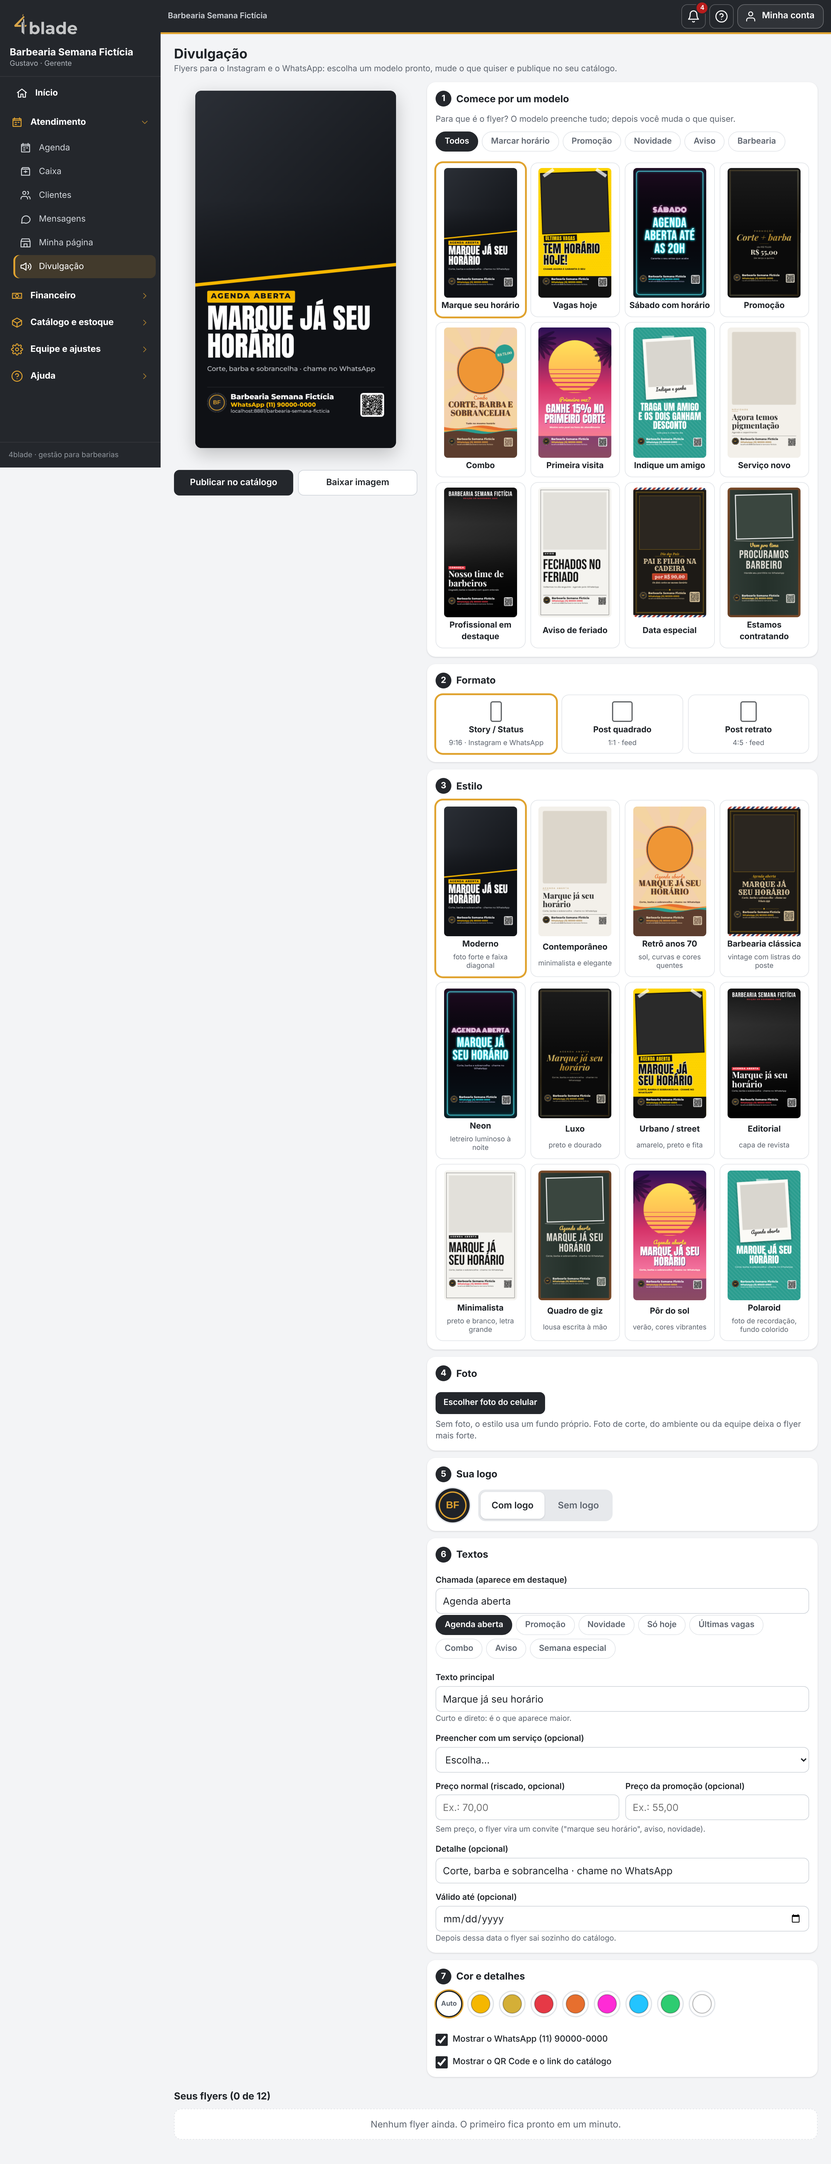
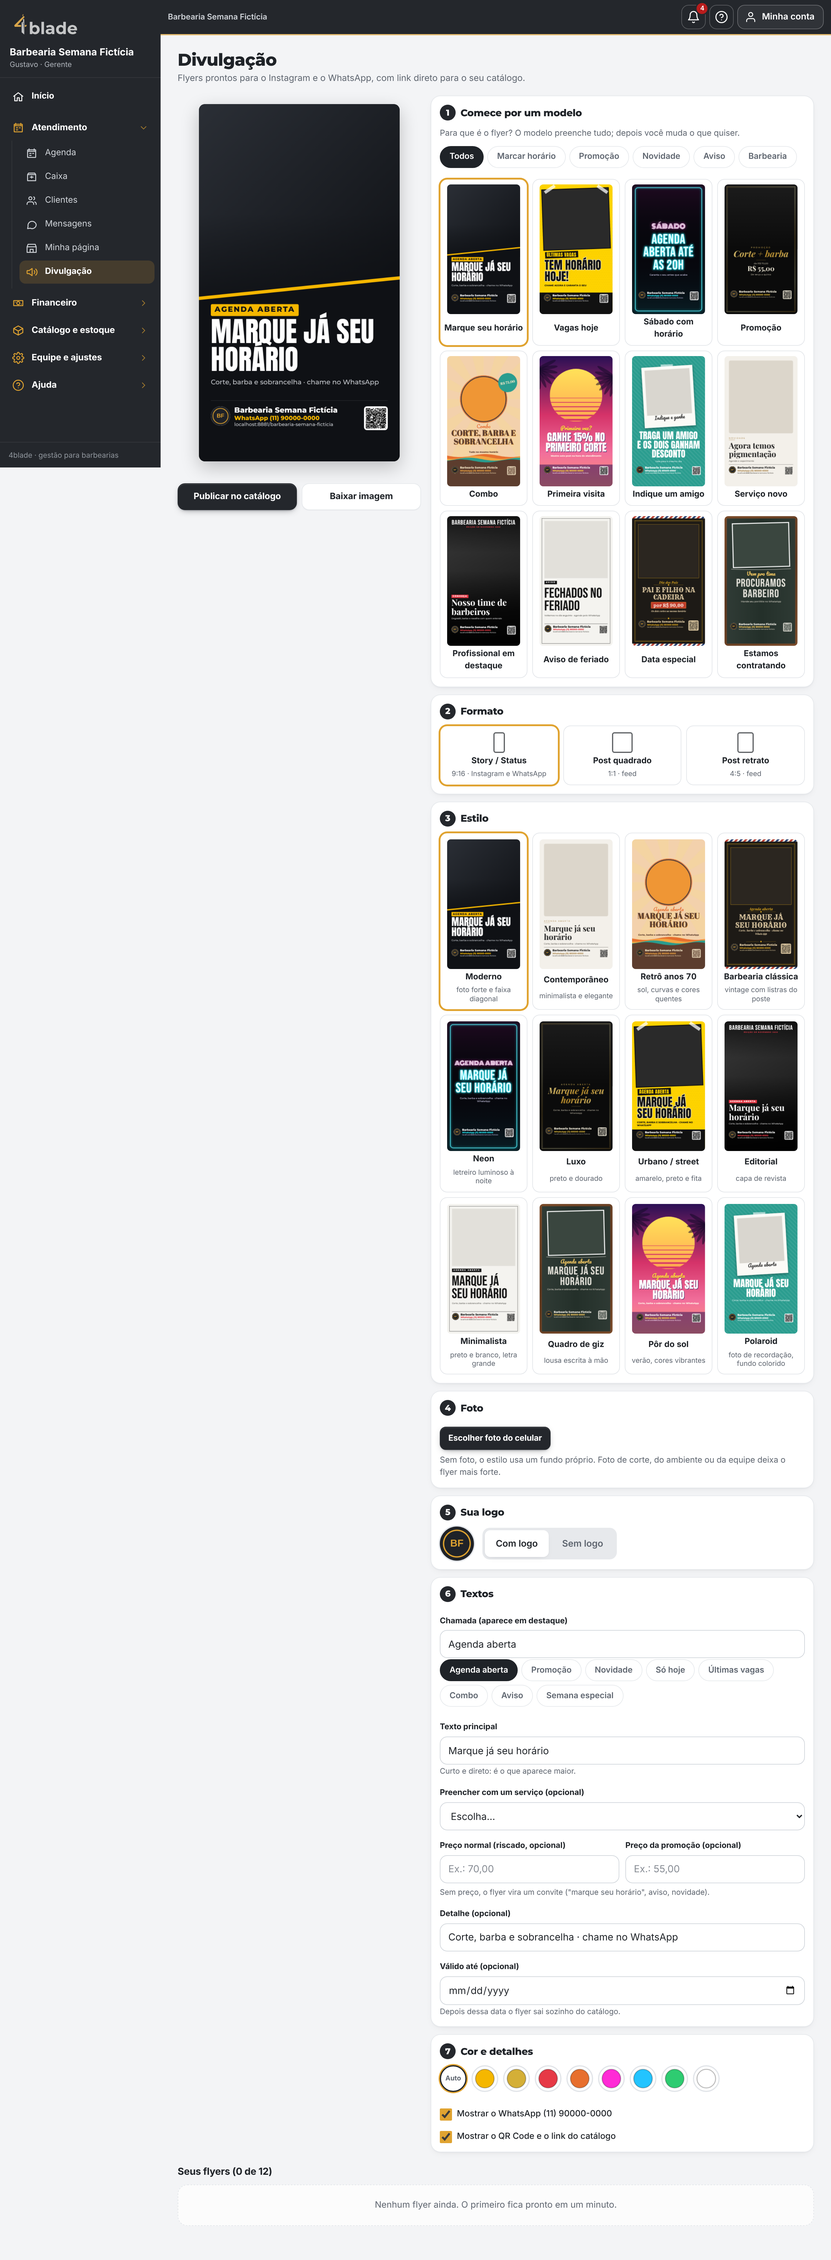
Refinamento visual v3: títulos da marca, botões/campos/cartões consistentes, textos das telas e Equipe reorganizada
Claude-Session: https://claude.ai/code/session_01R9hMmP8YX9EsdpaJW4w2cf

Changed region(s): [[0.2178, 0.0, 0.9645, 0.9679], [0.0, 0.0, 0.1867, 0.2186], [0.9334, 0.8743, 0.9645, 0.9055]]

diff --git a/public/style.css b/public/style.css
@@ -1844,3 +1844,148 @@ html { touch-action: manipulation; -webkit-text-size-adjust: 100%; text-size-adj
 .ver-mais-lista > summary { cursor: pointer; padding: 10px 4px 4px; font-weight: 700; color: var(--destaque); list-style: none; }
 .ver-mais-lista > summary::-webkit-details-marker { display: none; }
 .ver-mais-lista[open] > summary { padding-bottom: 8px; }
+
+/* =====================================================================================
+   REFINAMENTO VISUAL v3 (25/11/2026, pedido do responsável): menos "cara de app genérico".
+   Camada única no fim do arquivo (fácil de ajustar/desfazer). Só variáveis de cor.
+   - Títulos com a fonte da marca (Montserrat), números tabulares, hierarquia clara
+   - Botões, campos e cartões com o mesmo desenho (raio, altura, sombra, estados)
+   - Cartões com borda fina + sombra suave; menos "caixa cinza dentro de caixa cinza"
+   ===================================================================================== */
+@font-face { font-family: "Marca"; src: url(/fontes/montserrat-800.woff2) format("woff2"); font-weight: 700 900; font-display: swap; }
+@font-face { font-family: "Marca"; src: url(/fontes/montserrat-500.woff2) format("woff2"); font-weight: 400 600; font-display: swap; }
+:root {
+  --raio: 14px;
+  --raio-botao: 12px;
+  --linha: color-mix(in srgb, var(--borda) 85%, transparent);
+  --sombra: 0 1px 2px rgba(16, 24, 40, .04), 0 4px 14px -6px rgba(16, 24, 40, .10);
+  --sombra-alta: 0 2px 4px rgba(16, 24, 40, .05), 0 18px 40px -12px rgba(16, 24, 40, .22);
+  --transicao: .16s cubic-bezier(.2, .7, .3, 1);
+}
+:root[data-tema="escuro"] { --sombra: 0 1px 2px rgba(0, 0, 0, .35), 0 6px 16px -8px rgba(0, 0, 0, .55); --sombra-alta: 0 20px 44px -12px rgba(0, 0, 0, .7); }
+body { font-size: 15px; line-height: 1.45; -webkit-font-smoothing: antialiased; text-rendering: optimizeLegibility; }
+strong, .preco, .resumo-item strong, .valor { font-variant-numeric: tabular-nums; }
+
+/* ---- topo: sem a faixa grossa; linha fina e um brilho discreto da cor de destaque ---- */
+.topo { border-bottom: 0; box-shadow: 0 1px 0 rgba(255, 255, 255, .06), 0 2px 0 color-mix(in srgb, var(--dourado) 70%, transparent); }
+.topo-conta, .topo .btn-icone, #btn-notif, #btn-ajuda { border-radius: 12px; transition: background var(--transicao); }
+
+/* ---- títulos das telas ---- */
+main { padding: 20px 16px 48px; }
+.cabecalho { margin: 0 0 18px; gap: 4px 12px; }
+.cabecalho h2 { font-family: "Marca", system-ui, sans-serif; font-weight: 800; font-size: 25px; letter-spacing: -.02em; line-height: 1.15; }
+.cabecalho p { font-size: 14.5px; color: var(--suave); flex-basis: 100%; }
+.cabecalho .voltar { font-size: 14px; margin-bottom: 4px; }
+h3 { letter-spacing: -.01em; }
+.janela-form h3, .secao-titulo h3, .visao-secao h3, .fl-passo h3 { font-family: "Marca", system-ui, sans-serif; font-weight: 800; letter-spacing: -.015em; }
+@media (min-width: 1024px) { main { padding: 26px 28px 56px; } .cabecalho h2 { font-size: 28px; } }
+
+/* ---- cartões e listas: borda fina + sombra suave ---- */
+.cartao, .lista-x, .painel-novo, .resumo-item, .mp-secao, .fl-passo, .vaga, .fin-secao, .visao-secao {
+  border: 1px solid var(--linha); box-shadow: var(--sombra);
+}
+.cartao { border-radius: 16px; padding: 16px; }
+.lista-x, .painel-novo, .mp-secao, .fl-passo { border-radius: 16px; }
+.item-x { border-bottom-color: var(--linha); }
+.item-x:last-child { border-bottom: 0; }
+.item-x-resumo { transition: background var(--transicao); }
+.vazio { border-radius: 16px; padding: 22px 18px; background: color-mix(in srgb, var(--cartao) 70%, transparent); border: 1.5px dashed var(--borda); font-size: 14.5px; line-height: 1.5; }
+
+/* ---- indicadores (KPI): rótulo pequeno em caixa alta, número grande ---- */
+.resumo-item { border-radius: 14px; padding: 12px 14px; gap: 3px; }
+.resumo-item small { font-size: 11px; font-weight: 700; letter-spacing: .06em; text-transform: uppercase; }
+.resumo-item strong { font-size: 21px; font-weight: 800; letter-spacing: -.01em; }
+.resumo-item.alerta { box-shadow: inset 3px 0 0 var(--erro), var(--sombra); }
+
+/* ---- botões: um desenho só ---- */
+.botao {
+  min-height: 44px; border-radius: var(--raio-botao); padding: 0 16px; font-weight: 650; letter-spacing: -.005em;
+  border-color: var(--linha); background: var(--cartao); box-shadow: 0 1px 1px rgba(16, 24, 40, .04);
+  transition: background var(--transicao), border-color var(--transicao), box-shadow var(--transicao), transform .08s ease;
+}
+.botao:hover { background: var(--neutro-2); border-color: var(--borda); }
+.botao:active:not(:disabled) { transform: scale(.98); }
+.botao.principal, .botao.dourado {
+  box-shadow: inset 0 1px 0 rgba(255, 255, 255, .14), 0 1px 2px rgba(16, 24, 40, .18), 0 4px 12px -6px color-mix(in srgb, var(--botao-principal) 70%, transparent);
+}
+.botao.principal:hover { filter: brightness(1.08); background: var(--botao-principal); }
+.botao.dourado:hover { filter: brightness(1.05); background: var(--dourado); }
+.botao.pequeno { min-height: 38px; border-radius: 10px; padding: 0 13px; font-size: 13.5px; }
+.botao.texto-perigo, .alterna .botao, .botao.seta { box-shadow: none; }
+.botao.whats { background: color-mix(in srgb, var(--ok) 8%, var(--cartao)); border-color: color-mix(in srgb, var(--ok) 35%, transparent); }
+.botao.perigo-cheio { box-shadow: 0 1px 2px rgba(16, 24, 40, .18); }
+.botao:disabled { opacity: .5; box-shadow: none; }
+
+/* ---- campos ---- */
+label { font-size: 13px; font-weight: 650; color: var(--texto); margin-bottom: 6px; }
+.campo { margin-top: 12px; }
+input, select, textarea { min-height: 46px; border-radius: 12px; padding: 10px 13px; transition: border-color var(--transicao), box-shadow var(--transicao); }
+input:hover, select:hover, textarea:hover { border-color: color-mix(in srgb, var(--campo-borda) 60%, var(--texto)); }
+input:focus, select:focus, textarea:focus { border-color: var(--dourado); box-shadow: 0 0 0 4px color-mix(in srgb, var(--dourado) 20%, transparent); }
+input::placeholder, textarea::placeholder { color: color-mix(in srgb, var(--suave) 75%, transparent); }
+.marcar input { accent-color: var(--dourado); }
+
+/* ---- filtros (chips) e controles segmentados ---- */
+.chip-filtro { min-height: 36px; padding: 0 15px; display: inline-flex; align-items: center; border-color: var(--linha); transition: background var(--transicao), color var(--transicao); }
+.chip-filtro:hover { color: var(--texto); border-color: var(--borda); }
+.chip-filtro.ativo { background: var(--texto); border-color: var(--texto); color: var(--cartao); }
+.alterna, .abas-secao { background: var(--alterna-fundo); border-radius: 12px; padding: 4px; }
+.alterna .botao { border-radius: 9px; min-height: 34px; }
+.alterna .botao.ativo, .abas-secao a.ativa { box-shadow: 0 1px 2px rgba(16, 24, 40, .08), 0 1px 4px rgba(16, 24, 40, .06); }
+
+/* ---- "Novo …" (painel que abre): sem a bolinha dourada; ícone discreto e o form em 2 colunas quando há espaço ---- */
+.painel-novo { container-type: inline-size; }
+.painel-novo > summary { min-height: 56px; padding: 12px 16px; font-family: "Marca", system-ui, sans-serif; letter-spacing: -.01em; transition: background var(--transicao); }
+.painel-novo > summary:hover { background: var(--neutro-2); }
+.painel-novo .mais-novo { width: 30px; height: 30px; border-radius: 10px; background: var(--texto); color: var(--cartao); font-size: 19px; font-weight: 500; line-height: 1; }
+@container (min-width: 720px) {
+  .painel-novo > form.cartao { display: grid; grid-template-columns: 1fr 1fr; column-gap: 18px; align-items: start; padding: 6px 20px 20px; }
+  .painel-novo > form.cartao > :not(.campo) { grid-column: 1 / -1; }
+  .painel-novo > form.cartao > .botao[type=submit], .painel-novo > form.cartao > button.principal { justify-self: start; width: auto; min-width: 200px; }
+}
+
+/* ---- menu lateral ---- */
+.menu-nav { padding: 10px; gap: 3px; }
+.grupo-titulo, .nav-item { border-radius: 10px; transition: background var(--transicao), color var(--transicao); }
+.grupo-itens { padding: 2px 0 8px 12px; margin-left: 9px; border-left: 1px solid rgba(255, 255, 255, .07); }
+.nav-item.ativo { box-shadow: none; background: color-mix(in srgb, var(--dourado) 18%, transparent); color: #fff; font-weight: 650; }
+.nav-item.ativo .icone { color: var(--dourado); }
+.nav-inicio { margin: 2px 0 8px; }
+
+/* ---- janela (pop-up) ---- */
+.janela { border-radius: 20px; box-shadow: var(--sombra-alta); border: 1px solid var(--linha); }
+.janela::backdrop { background: rgba(10, 12, 16, .5); backdrop-filter: blur(2px); }
+.janela-form { padding: 20px 20px 18px; }
+.janela-form h3 { font-size: 19px; margin-bottom: 10px; }
+.janela-botoes { gap: 10px; margin-top: 6px; }
+
+/* ---- avisos e etiquetas ---- */
+.aviso-flutuante { border-radius: 14px; padding: 12px 18px; font-weight: 650; box-shadow: var(--sombra-alta); }
+.info { border-radius: 12px; padding: 11px 14px; border: 1px solid color-mix(in srgb, var(--info-texto) 14%, transparent); line-height: 1.45; }
+.etiqueta { padding: 2px 9px; font-size: 11.5px; letter-spacing: .01em; }
+
+/* ---- celular: um pouco mais de respiro nas laterais e toque confortável ---- */
+@media (max-width: 599px) {
+  main { padding: 16px 14px 40px; }
+  .cabecalho { margin-bottom: 14px; }
+  .cabecalho h2 { font-size: 23px; }
+  .resumo-item strong { font-size: 19px; }
+}
+@media (prefers-reduced-motion: reduce) { .botao, .item-x-resumo, input, select, textarea { transition: none; } .botao:active:not(:disabled) { transform: none; } }
+.rotulo-secao { margin: 0 0 8px; font-size: 11.5px; font-weight: 700; letter-spacing: .07em; text-transform: uppercase; color: var(--suave); }
+.vaga { border-radius: 14px; padding: 12px 14px; text-align: left; }
+.vaga strong { font-size: 22px; font-weight: 800; }
+.lista-x + .painel-novo, .lista-x + details.painel-novo { margin-top: 14px; }
+@media (max-width: 599px) {
+  .resumo-item strong { font-size: clamp(15px, 4.4vw, 19px); }
+  .pdv-ferramentas { flex-wrap: nowrap; overflow-x: auto; scrollbar-width: none; padding-bottom: 2px; }
+  .pdv-ferramentas::-webkit-scrollbar { display: none; }
+  .pdv-ferramentas > * { flex: none; }
+  .fl-botoes .botao, .fl-fim .botao { font-size: 14px; padding: 0 10px; white-space: nowrap; }
+}
+.mp-link { overflow-wrap: anywhere; }
+@media (max-width: 599px) {
+  .resumo-despesas:not(.duas):not(.quatro) .resumo-item { padding: 10px 10px; }
+  .resumo-despesas:not(.duas):not(.quatro) .resumo-item strong { font-size: clamp(13.5px, 3.8vw, 17px); letter-spacing: -.02em; }
+  .resumo-despesas:not(.duas):not(.quatro) .resumo-item small { font-size: 10px; letter-spacing: .04em; }
+}

diff --git a/public/app.js b/public/app.js
@@ -2883,7 +2883,7 @@ async function telaFuncionamento() {
           }, "Reabrir"), "pequeno")))))
       : el("p", { class: "suave", text: "Nenhuma data fechada daqui para frente." }));
 
-  mostrar(cabecalho("Funcionamento", "O horário de cada profissional fica dentro do funcionamento (Equipe → Horário)."),
+  mostrar(cabecalho("Funcionamento", "Dias e horários em que a barbearia atende. O horário de cada profissional fica em Equipe."),
     el("div", { class: "duas-colunas" }, el("section", {}, form), el("section", {}, formFechar, fechadas)));
 }
 
@@ -4116,7 +4116,7 @@ async function telaFinanceiro() {
       el("p", { class: "suave centro" }, "Planilha completa e envio ao contador: ", el("a", { href: "#/contador", text: "Contador e dados" }), ".")];
   }
   mostrar(
-    cabecalho("Relatórios", "Entradas, saídas, resultado, equipe e vendas da barbearia"),
+    cabecalho("Relatórios", "Quanto entrou, quanto saiu e o que sobrou — por período, equipe e vendas."),
     controles, abasFin, corpo);
 }
 
@@ -4347,7 +4347,7 @@ async function telaPagamentoEquipe(pessoaId = null) {
       ]
     });
   }) : [el("li", { class: "vazio", text: "Ninguém na equipe ainda." })]);
-  mostrar(cabecalho("Pagamento da equipe", "Quanto pagar a cada um no mês: salário + comissão − vales. Toque na pessoa para ver o resumo; \"Ver desempenho completo\" abre o panorama."),
+  mostrar(cabecalho("Pagamento da equipe", "Quanto pagar a cada um no mês: salário + comissão − vales."),
     abas, navega, topo,
     el("div", { class: "duas-colunas" }, el("section", {}, el("h3", { class: "titulo-lista", text: "Equipe" }), ul), ranking),
     el("p", { class: "suave nota-rodape", text: "O salário pago entra nas despesas (\"Salários (equipe)\") e no relatório financeiro; a comissão fica fechada. Gastos com pessoal = comissões + salários." }));
@@ -4772,7 +4772,7 @@ async function telaContas() {
   };
   desenhar();
   telaLista({
-    titulo: "Despesas", subtitulo: "Contas e compras da barbearia. Toque numa despesa para pagar, editar ou cancelar.",
+    titulo: "Despesas", subtitulo: "Contas a pagar, compras e tudo o que sai da barbearia.",
     topo: resumo,
     barra: barraBusca({ placeholder: "Buscar despesa", filtros: [["abertas", "A pagar"], ["pagas", "Pagas"], ["todas", "Todas"]], estado, aoMudar: desenhar }),
     lista: ul, painel: painelCadastro("Nova despesa", formNovaDespesa(doEstoque))
@@ -4924,10 +4924,10 @@ async function telaEquipe() {
 
   const form = formUsuario(perfisQuePossoCriar);
   mostrar(
-    cabecalho("Equipe", "Vagas do plano (usuários ativos):"),
-    vagasEl,
-    painelCadastro("Nova pessoa", form),
-    lista);
+    cabecalho("Equipe", "Quem trabalha com você, o que cada um acessa e quanto ganha de comissão."),
+    el("p", { class: "rotulo-secao", text: "Vagas do plano" }), vagasEl,
+    lista,
+    painelCadastro("Nova pessoa", form));
 }
 
 function camposComissao(u = null) {
@@ -5156,7 +5156,7 @@ async function telaServicos() {
   };
   desenhar();
   telaLista({
-    titulo: "Serviços", subtitulo: "Toque no serviço para editar. O preço pode mudar na hora de finalizar (fica registrado).",
+    titulo: "Serviços", subtitulo: "Preço e tempo de cada serviço. É a tabela usada na agenda e no caixa.",
     barra: barraBusca({ placeholder: "Buscar serviço", filtros: [["ativos", "Ativos"], ["desativados", "Desativados"]], estado, aoMudar: desenhar }),
     lista: ul, painel: painelCadastro("Novo serviço", formCadastro(def))
   });
@@ -5251,7 +5251,7 @@ async function telaProdutos() {
   painel.append(el("p", { class: "link-discreto" }, el("a", { href: "#/produtos", "data-teste": "novo-material", text: "É material que a barbearia usa e não vende (lâmina, creme…)? Cadastre como material de uso",
     onclick: ev => { ev.preventDefault(); janelaMaterial(); } })));
   telaLista({
-    titulo: "Produtos e estoque", subtitulo: "Toque no item para dar entrada (compra), baixa, ajuste ou editar.",
+    titulo: "Produtos e estoque", subtitulo: "O que você vende e o que usa no dia a dia, com o estoque de cada item.",
     barra: barraBusca({ placeholder: "Buscar produto ou código", filtros: [["todos", "Todos"], ["uso", "Uso da barbearia"], ["atencao", "Atenção"], ["desativados", "Desativados"]], estado, aoMudar: desenhar }),
     lista: el("div", {}, ul, todos.some(p => p.ativo)
       ? el("p", { class: "centro" }, botao("Inventário (contar a prateleira)", () => janelaInventario(todos.filter(p => p.ativo)), "pequeno")) : null),
@@ -5318,7 +5318,7 @@ async function telaClientes(busca = null) {
   };
   desenhar();
   telaLista({
-    titulo: "Clientes", subtitulo: "Toque no cliente para ver as opções.",
+    titulo: "Clientes", subtitulo: "Todos os seus clientes, com contato, histórico e pendências.",
     barra: barraBusca({ placeholder: "Buscar por nome, apelido ou telefone", filtros, estado: estadoClientes, aoMudar: desenhar }),
     contador, lista: ul, painel: (() => {
       const pn = painelCadastro("Novo cliente", formCadastro(def));
@@ -5380,7 +5380,7 @@ async function telaMensagens() {
   });
   mostrarModelo();
   const envio = await blocoEnviarMensagem(modelos, campos);
-  mostrar(cabecalho("Mensagens", "Escolha a mensagem, escolha os clientes e envie pelo WhatsApp."),
+  mostrar(cabecalho("Mensagens", "Escolha a mensagem e os clientes; o WhatsApp abre com o texto pronto."),
     el("div", { class: "tela-mensagens" },
       envio,
       el("details", { class: "painel-novo painel-modelos", "data-teste": "painel-modelos" },
@@ -5696,7 +5696,7 @@ async function telaNotificacoes() {
       el("button", { type: "button", class: `chip-filtro ${estadoNotif.filtro === id ? "ativo" : ""}`, "data-filtro": id, text: t,
         onclick: ev => { estadoNotif.filtro = id; chips.querySelectorAll(".chip-filtro").forEach(b => b.classList.toggle("ativo", b === ev.currentTarget)); desenhar(); } })));
   const novas = itens.filter(i => !v.has(i.id)).length;
-  mostrar(cabecalho("Notificações", "O que precisa da sua atenção. Toque num aviso para ir direto à tela certa. Some sozinho quando for resolvido."),
+  mostrar(cabecalho("Notificações", "O que precisa da sua atenção agora. Cada aviso some sozinho quando é resolvido."),
     el("div", { class: "notif-topo" },
       el("p", { class: "suave", "data-teste": "notif-novas", text: novas ? `${novas} nova(s) desde a última visita.` : "Nenhuma nova." }),
       novas ? botao("Marcar todas como vistas", () => { marcarVistas(itens); telaNotificacoes(); }, "pequeno") : null),
@@ -6050,7 +6050,7 @@ async function telaNotas() {
       estadoNotas.busca = campoB?.value || ""; desenhar();
     }
   });
-  telaLista({ titulo: "Notas (fiado)", subtitulo: "Quem levou para pagar depois. Toque no cliente para ver as notas e dar baixa quando ele pagar (entra no caixa de hoje).",
+  telaLista({ titulo: "Notas (fiado)", subtitulo: "Quem levou para pagar depois. Ao receber, o valor entra no caixa de hoje.",
     topo: resumoEl, barra, lista: ul });
 }
 
@@ -6368,7 +6368,7 @@ async function telaMinhaPagina() {
   ];
 
   mostrar(
-    cabecalho("Minha página", "Sua vitrine para a bio do Instagram, o WhatsApp e o Google."),
+    cabecalho("Minha página", "Sua vitrine na internet: para a bio do Instagram, o WhatsApp e o Google."),
     topo,
     numeros,
     el("div", { class: "mp-secoes" },
@@ -6791,7 +6791,7 @@ function montarFlyers(FL, d, lista, logo) {
   const cheio = lista.flyers.length >= lista.limite;
 
   mostrar(
-    cabecalho("Divulgação", "Flyers para o Instagram e o WhatsApp: escolha um modelo pronto, mude o que quiser e publique no seu catálogo."),
+    cabecalho("Divulgação", "Flyers prontos para o Instagram e o WhatsApp, com link direto para o seu catálogo."),
     ...avisos,
     el("div", { class: "fl-grade" },
       el("div", { class: "fl-previa-col" },

diff --git a/public/sw.js b/public/sw.js
@@ -3,7 +3,7 @@
  * Guarda SOMENTE os arquivos da tela (para abrir sem internet).
  * NUNCA guarda nada de /api/ (dados e login sempre vão direto ao servidor).
  */
-const CACHE = "4blade-v59";
+const CACHE = "4blade-v60";
 
 const ARQUIVOS = [
   "/",

diff --git a/CLAUDE.md b/CLAUDE.md
@@ -247,6 +247,8 @@ App de gestão para barbearias, vendido por assinatura para várias barbearias (
 
 - 25/11/2026: **Início: "Sem fechar" sem botões repetidos** (pedido do responsável). Sem migração. `telaVisaoDia`: cada linha é um `button.item-x-resumo.linha-cobrar` (data/hora · cliente · profissional + `.cobrar-seta` "›"); tocar = `cobrarAtendimento(id)` → busca `/caixa/atendimentos` e abre `janelaFinalizar(…, {endpoint: "/caixa/cobrar"})` ali mesmo (antes o botão levava ao Caixa, que só mostra os de hoje — os atrasados não apareciam lá); 5 à vista + `details.ver-mais-lista` "Ver mais N". Teste: `test/navegador-notificacoes.mjs` (7 atendimentos de ontem; print `*-gerente-sem-fechar`). Cache do sw `4blade-v59`. **Publicado em 25/11/2026 (autorizado, sem migração): versão ace7237f** (forblade.com.br: sw `4blade-v59`, app.js com `cobrarAtendimento`).
 
+- 25/11/2026: **Refinamento visual v3** (pedido do responsável: menos "cara de app genérico"). Sem migração. `public/style.css`: camada "REFINAMENTO VISUAL v3" no FIM do arquivo (fácil de ajustar/desfazer): fonte da marca nos títulos (`@font-face "Marca"` = Montserrat 500/800 de `/fontes/`), `--raio-botao`, `--linha`, `--sombra`/`--sombra-alta`, `--transicao`; topo sem a faixa grossa; títulos 25–28 px; cartões/listas com borda fina + sombra suave; KPIs (`.resumo-item`) com rótulo em caixa alta e número grande; botões com um desenho só (44 px, raio 12, estados hover/ativo); campos 46 px com foco suave; chips e controles segmentados; `.painel-novo` sem a bolinha dourada e com formulário em 2 colunas quando há espaço (`@container` ≥ 720 px); menu lateral com item ativo mais limpo; janela com raio 20 e fundo desfocado; celular: valores dos 3 indicadores de Despesas sem corte, ferramentas do caixa em 1 linha que desliza. app.js: subtítulos reescritos (Clientes, Despesas, Serviços, Produtos, Notas, Equipe, Relatórios, Mensagens, Notificações, Funcionamento, Divulgação, Minha página, Pagamento da equipe); Equipe = "Vagas do plano" (`.rotulo-secao`) + lista + "Nova pessoa" no fim. Prints antes/depois em `docs/prints/ux-v3/`. Cache do sw `4blade-v60`.
+
 ## Versão de teste publicada (Cloudflare) — NÃO atualizar mais (decisão de 16/11/2026)
 - Endereço: https://4blade-teste.terraplanagem.workers.dev (Worker `4blade-teste`, banco D1 `4blade-db-teste`, região ENAM). Dados FICTÍCIOS apenas.
 - Publicar de novo: `npx wrangler deploy --config wrangler.teste.toml`; migrações: `npx wrangler d1 migrations apply 4blade-db-teste --remote --config wrangler.teste.toml`.

diff --git a/docs/ESPECIFICACAO.md b/docs/ESPECIFICACAO.md
@@ -361,3 +361,8 @@ Cada entrega: testes automáticos + teste no navegador (computador 1366 px e cel
 - **Pagamento da equipe** fica dentro de Despesas (abas "Despesas | Pagamento da equipe").
 - **Contato e rodapé da página (25/11/2026):** o "Telefone" só aparece se o gerente preencher "Outro telefone" em Minha página (não usa mais o telefone do cadastro) e não repete o WhatsApp. Ícones de WhatsApp, telefone e Instagram desenhados. No fim da página, um cartão discreto do 4blade (logo, uma frase sobre o sistema e "Gostou desta página? Fale com a equipe 4blade", que abre o WhatsApp do suporte ou o pedido de teste grátis).
 
+## 28. Refinamento visual (25/11/2026, pedido do responsável)
+- Visual mais moderno e consistente em todas as telas: títulos com a fonte da marca, botões e campos com o mesmo desenho, cartões com borda fina e sombra suave, indicadores com número grande, menu lateral e janelas mais limpos.
+- Subtítulos das telas reescritos: dizem para que serve a tela (em vez de "toque aqui para…").
+- Equipe: primeiro as vagas e a lista; o cadastro de pessoa fica no fim (no computador, em duas colunas).
+
